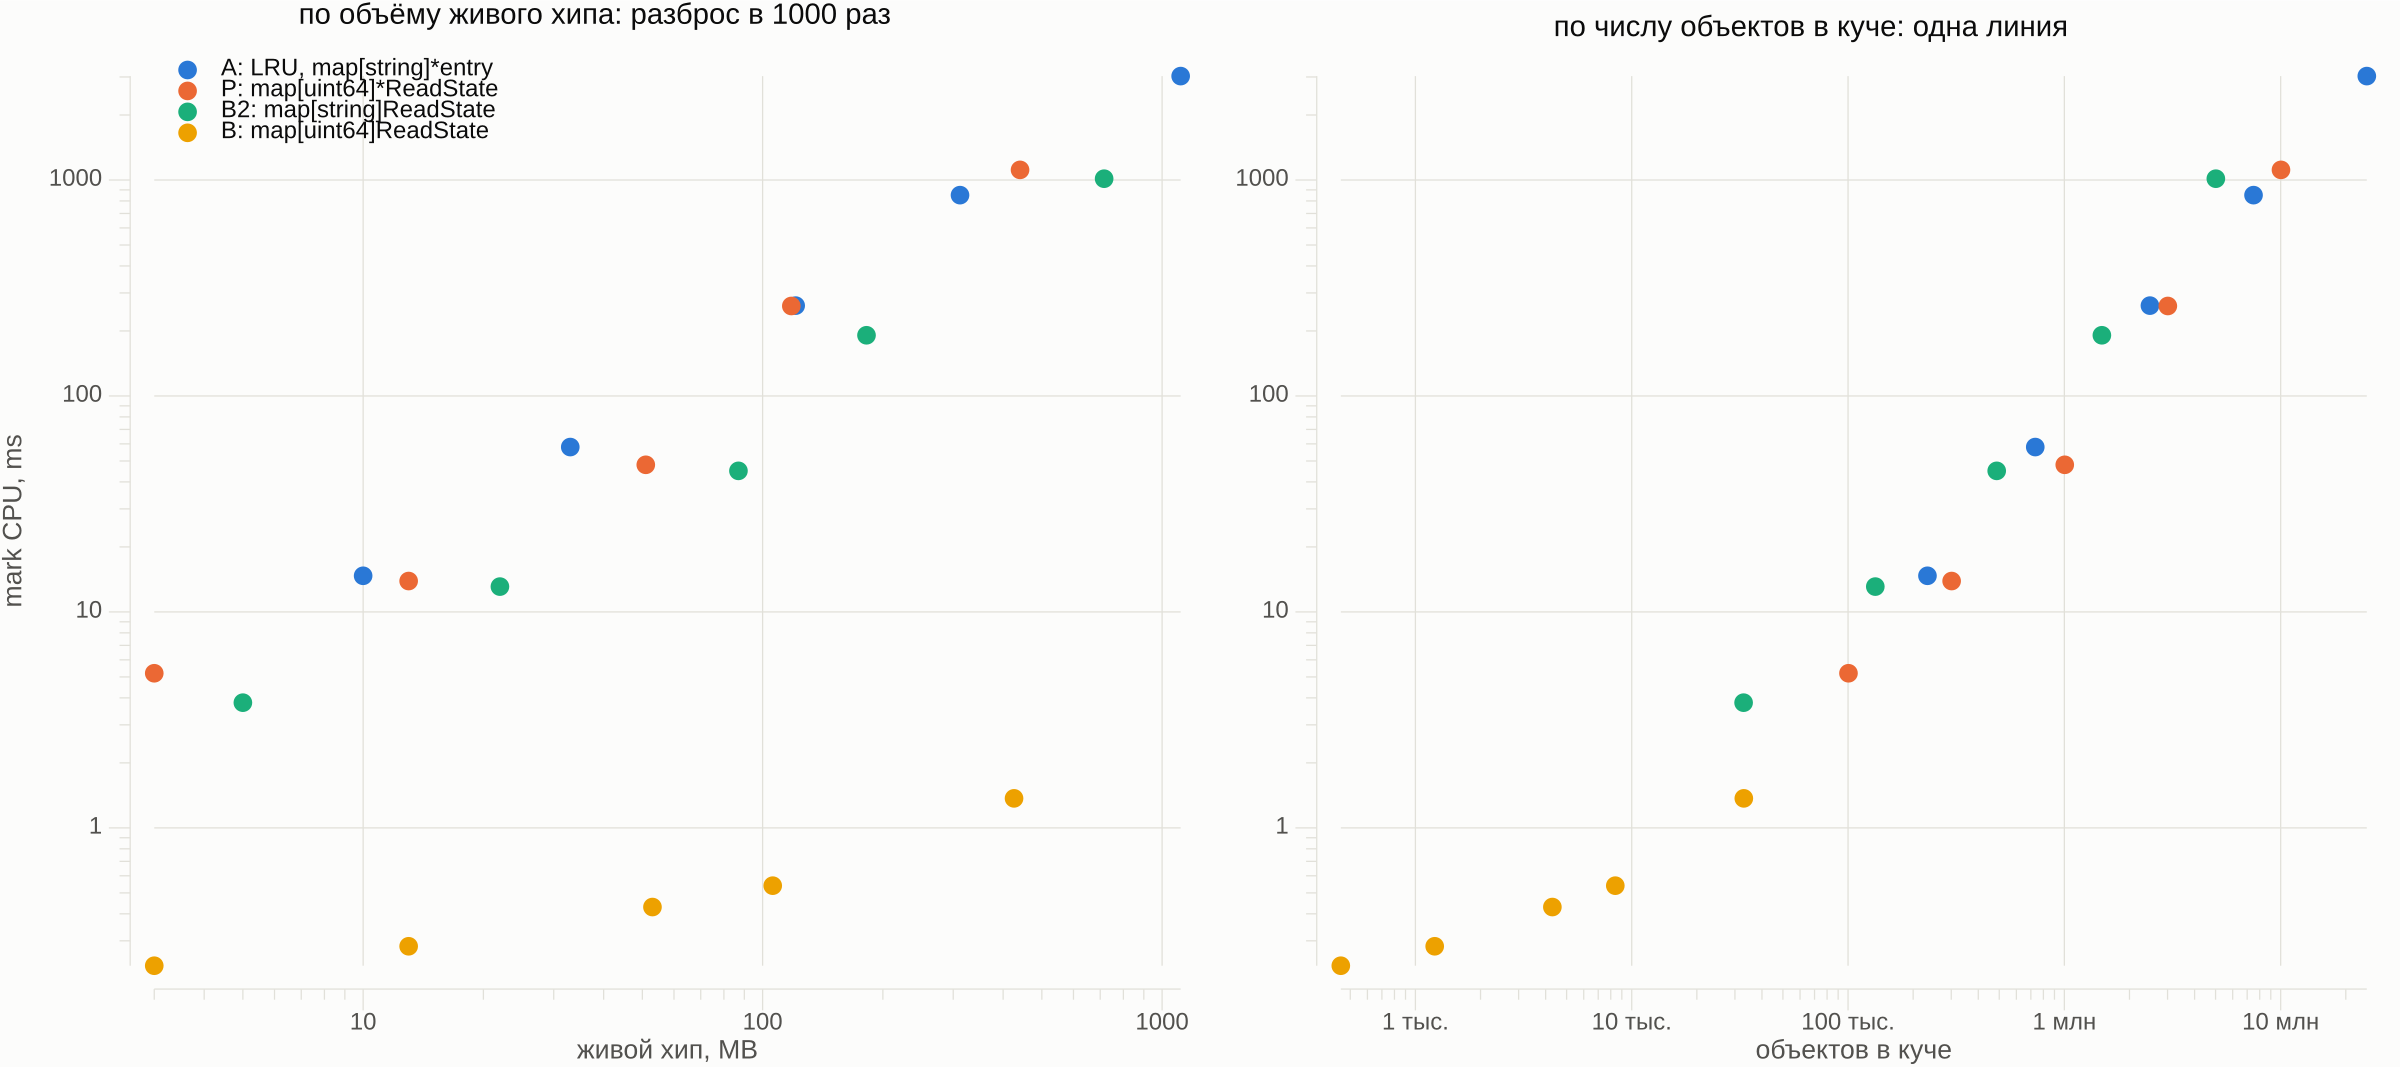
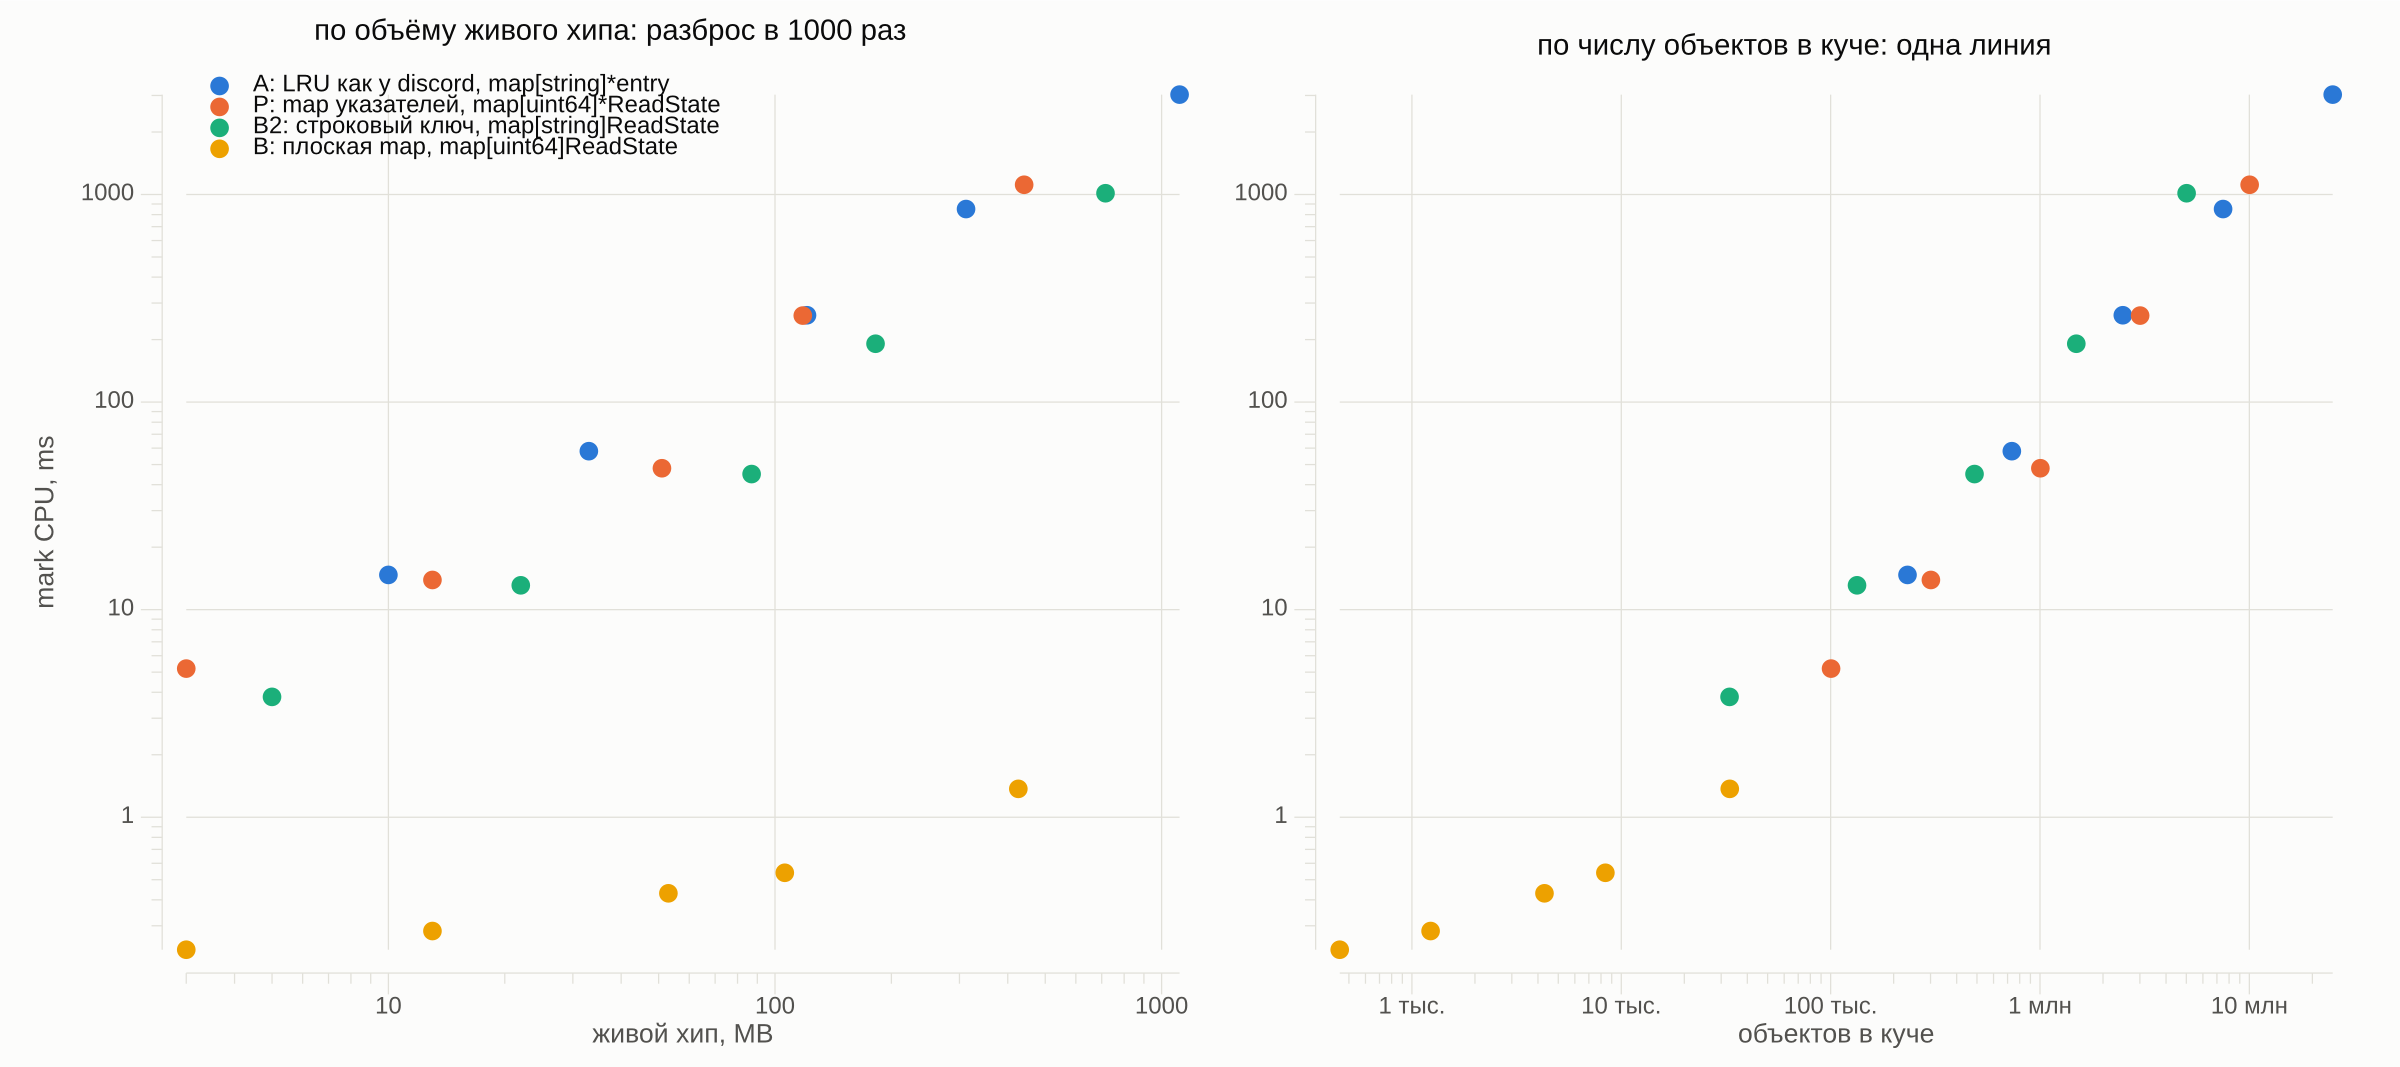
docs(001): name variants in words, plain-language rule, chart margins and commas
Подписи вариантов совпадают с постом: LRU как у discord, map указателей,
строковый ключ, плоская map. В раздел про большой кэш и в вывод README
добавлено, когда это важно, и правило: цена разметки = живые объекты ×
задержка памяти, около 100 ns на объект, порядок переносится на другое железо.

diff --git a/001-gc-pointers/index.html b/001-gc-pointers/index.html
@@ -156,7 +156,7 @@ footer pre { margin: 0; font: 400 12px/1.5 var(--font-mono); white-space: pre-wr
     <div class="head">
       <div>
         <h2>Сборщик считает объекты</h2>
-        <p class="note">Те же 20 прогонов, две оси X. Плоская map на 426 MB размечается за миллисекунду, кэш на указателях того же объёма за секунду. По числу объектов в куче все четыре варианта ложатся на одну линию: около 100–200 ns CPU на объект.</p>
+        <p class="note">Те же 20 прогонов, две оси X. Плоская map на 426 MB размечается за миллисекунду, кэш на указателях того же объёма за секунду. По числу объектов в куче все четыре варианта ложатся на одну линию: от 80 до 200 ns CPU на объект в зависимости от варианта и режима.</p>
       </div>
     </div>
     <div class="two">
@@ -204,7 +204,9 @@ footer pre { margin: 0; font: 400 12px/1.5 var(--font-mono); white-space: pre-wr
     <div class="head">
       <div>
         <h2>Что делать с большим кэшем</h2>
-        <p class="note">Способы по возрастанию усилий. Первые два закрывают большинство случаев.</p>
+        <p class="note">Касается только того, что живёт долго и в миллионах экземпляров: кэши, индексы, in-memory репозитории. Временные объекты на запрос к моменту сборки уже мёртвые, сборщик их не обходит, они влияют только на то, как часто сборка приходит.</p>
+        <p class="note"><b>Правило на пальцах:</b> цена разметки равна числу живых объектов, умноженному на задержку памяти. На i7-6700 вышло около 100 ns CPU на объект (от 80 до 200 в зависимости от варианта и режима). На другом железе число будет другим, но порядок сохранится: это задержка оперативной памяти, у современных серверов она одного порядка. Миллион долгоживущих объектов стоит порядка 100 ms CPU на каждую сборку, и по таймеру сборка придёт даже в полном простое.</p>
+        <p class="note">Способы ниже идут по возрастанию усилий. Первые два закрывают большинство случаев.</p>
       </div>
     </div>
     <ol class="fixes">
@@ -233,12 +235,12 @@ footer pre { margin: 0; font: 400 12px/1.5 var(--font-mono); white-space: pre-wr
 <script>
 const ORDER = ["a", "p", "b2", "b"];
 const NAME = {
-  a: "A · LRU map[string]*entry",
-  p: "P · map[uint64]*ReadState",
-  b2: "B2 · map[string]ReadState",
-  b: "B · map[uint64]ReadState",
+  a: "A · LRU как у discord",
+  p: "P · map указателей",
+  b2: "B2 · строковый ключ",
+  b: "B · плоская map",
 };
-const PTRS = { a: "6 указателей, 3 объекта на запись", p: "1 указатель, 1 объект", b2: "1 указатель, ключ-строка", b: "0 указателей" };
+const PTRS = { a: "map[string]*entry, 6 указателей и 3 объекта на запись", p: "map[uint64]*ReadState, 1 указатель", b2: "map[string]ReadState, 1 указатель в ключе", b: "map[uint64]ReadState, 0 указателей" };
 const COLOR = v => `var(--s-${v})`;
 const NS = "http://www.w3.org/2000/svg";
 
@@ -326,7 +328,7 @@ function legend(id, items) {
 // ---------- data ----------
 let DATA = null;
 const cfg = (mode, v, build, n) => DATA.configs.find(c => c.mode === mode && c.variant === v && c.build === build && (!n || c.n === n));
-const tipHtml = c => `<b>${NAME[c.variant]}</b><br>${c.build === "green" ? "Green Tea" : "без Green Tea"} · ${fmtCount(c.n)} записей<br>
+const tipHtml = c => `<b>${NAME[c.variant]}</b><br><span class="mono">${PTRS[c.variant]}</span><br>${c.build === "green" ? "Green Tea" : "без Green Tea"} · ${fmtCount(c.n)} записей<br>
   mark CPU: <span class="mono">${fmtMs(c.mark_cpu_ms.median)}</span> (${fmtMs(c.mark_cpu_ms.min)}…${fmtMs(c.mark_cpu_ms.max)})<br>
   mark по часам: <span class="mono">${fmtMs(c.mark_clock_ms.median)}</span><br>
   объектов в куче: <span class="mono">${fmtCount(c.objects)}</span> · хип ${fmtNum(c.live_mb.median, 0)} MB`;
@@ -494,7 +496,7 @@ function renderGreen() {
   axes(f, () => 0, sy, { xTicks: [], yTicks: sy.ticks(), xFmt: String, yFmt: v => fmtNum(v, 1), yTitle: "mark, ms" });
   groups.forEach(([v, label, k, g, n], i) => {
     const cx = f.x0 + band * i + band / 2;
-    el("text", { x: cx, y: f.y0 + 20, "text-anchor": "middle", class: "lab-2" }, f.svg).textContent = `${NAME[v].split(" · ")[0]}, ${label}`;
+    el("text", { x: cx, y: f.y0 + 20, "text-anchor": "middle", class: "lab-2" }, f.svg).textContent = `${NAME[v].split(" · ")[f.W > 620 ? 1 : 0]}, ${label}`;
     [g, n].forEach((c, j) => {
       const st = c[k], x = cx + (j ? 16 : -16), col = COLOR(v);
       el("line", { x1: x, x2: x, y1: sy(st.min), y2: sy(st.max), style: `stroke:${col};stroke-width:3;stroke-linecap:round;opacity:${j ? .55 : 1}` }, f.svg);

diff --git a/001-gc-pointers/report/plots.go b/001-gc-pointers/report/plots.go
@@ -26,10 +26,10 @@ func init() {
 var order = []string{"a", "p", "b2", "b"}
 
 var names = map[string]string{
-	"a":  "A: LRU, map[string]*entry",
-	"p":  "P: map[uint64]*ReadState",
-	"b2": "B2: map[string]ReadState",
-	"b":  "B: map[uint64]ReadState",
+	"a":  "A: LRU как у discord, map[string]*entry",
+	"p":  "P: map указателей, map[uint64]*ReadState",
+	"b2": "B2: строковый ключ, map[string]ReadState",
+	"b":  "B: плоская map, map[uint64]ReadState",
 }
 
 func rgb(hex uint32) color.RGBA {
@@ -114,6 +114,10 @@ func human(v float64) string {
 }
 
 func ms(v float64) string {
+	return strings.Replace(msDot(v), ".", ",", 1) // десятичная запятая, как в тексте
+}
+
+func msDot(v float64) string {
 	switch {
 	case v >= 1000:
 		return fmt.Sprintf("%.1f s", v/1000)
@@ -136,6 +140,7 @@ func save(name string, w, h vg.Length, ps ...*plot.Plot) error {
 	dc := draw.New(c)
 	dc.SetColor(paper)
 	dc.Fill(dc.Rectangle.Path())
+	dc = draw.Crop(dc, vg.Points(12), -vg.Points(12), vg.Points(6), -vg.Points(6)) // поля, чтобы подписи не прилипали к краю
 	if len(ps) == 1 {
 		ps[0].Draw(dc)
 	} else {

diff --git a/001-gc-pointers/README.md b/001-gc-pointers/README.md
@@ -49,10 +49,10 @@
 
 | Вариант | Как лежат записи | Указателей на запись | Объектов в куче на 10 млн |
 | ------- | ---------------- | -------------------- | ------------------------- |
-| A | `map[string]*entry`, ключ `strconv.Itoa(i)`. `entry` хранит `key string`, `value *ReadState`, `prev` и `next *entry`, все записи связаны в двусвязный список, как в LRU | 6: 4 в `entry` и 2 в слоте map | 25 млн |
-| P | `map[uint64]*ReadState` | 1 | 10 млн |
-| B2 | `map[string]ReadState`, ключ `strconv.Itoa(i)` | 1: байты ключа | 5 млн (tiny allocator пакует по два коротких ключа в 16-байтный блок) |
-| B | `map[uint64]ReadState` | 0 | 33 тыс. (каталог и таблицы map) |
+| A, LRU как у discord | `map[string]*entry`, ключ `strconv.Itoa(i)`. `entry` хранит `key string`, `value *ReadState`, `prev` и `next *entry`, все записи связаны в двусвязный список, как в LRU | 6: 4 в `entry` и 2 в слоте map | 25 млн |
+| P, map указателей | `map[uint64]*ReadState` | 1 | 10 млн |
+| B2, строковый ключ | `map[string]ReadState`, ключ `strconv.Itoa(i)` | 1: байты ключа | 5 млн (tiny allocator пакует по два коротких ключа в 16-байтный блок) |
+| B, плоская map | `map[uint64]ReadState` | 0 | 33 тыс. (каталог и таблицы map) |
 
 Вытеснения нет: кэш заполняется один раз и дальше не меняется.
 
@@ -157,6 +157,8 @@
 **Интервал между сборками.** Гипотеза: ровно 120 s. Факт: 120 s плюс длительность предыдущей сборки. У B интервал 120,0 s, у A от 120,9 до 122,2 s, у A без Green Tea до 124,5 s. Отсчёт идёт от конца сборки: `last_gc_nanotime` записывается в `gcMarkTermination` ([runtime/mgc.go](https://github.com/golang/go/blob/go1.27.1/src/runtime/mgc.go#L1437)), а проверка таймера сравнивает с ним текущее время ([там же](https://github.com/golang/go/blob/go1.27.1/src/runtime/mgc.go#L718-L719)).
 
 **Green Tea.** Гипотеза: для A выигрыш в процентах, для B без изменений. Факт под таймером: у A 974 против 2 668 ms по часам (в 2,7 раза) и 1 949 против 2 839 ms CPU (в 1,5 раза). Разница между этими числами видна в gctrace. С Green Tea CPU в каждой сборке ровно вдвое больше часов, то есть работают оба фоновых воркера. Без Green Tea в 14 сборках из 15 CPU равен часам, работает фактически один. При `runtime.GC()` на восьми воркерах у A выигрыш около 21% по CPU, у P и B2 медиана с Green Tea выше, но это один прогон на конфигурацию, и утверждать тут нечего. У B разница 1,2 против 2,1 ms, в абсолютных числах пренебрежимая.
+
+**Правило на пальцах.** Цена разметки равна числу живых объектов, умноженному на задержку памяти: почти каждый переход по указателю в большой куче промахивается мимо кэша процессора. На i7-6700 вышло около 100 ns CPU на объект (от 78 ns под таймером до 202 ns у B2 при `runtime.GC()`). На другом железе число будет другим, но порядок сохранится, потому что это порядок задержки оперативной памяти на современных серверах. Миллион долгоживущих объектов стоит порядка 100 ms CPU на каждую сборку. Правило касается только того, что живёт долго: временные объекты к моменту сборки мёртвые, и разметка их не обходит.
 
 **Что это значит для сервиса.** Кэш A в простое раз в две минуты занимает два ядра из восьми примерно на секунду. Горутины, которые в эту секунду начнут аллоцировать, попадут под mark assist и заплатят за разметку сами. `GOGC` сборку по таймеру не отменяет. Раскладка без указателей (B) снимает проблему целиком: 1,2 ms на сборку при тех же данных.
 
